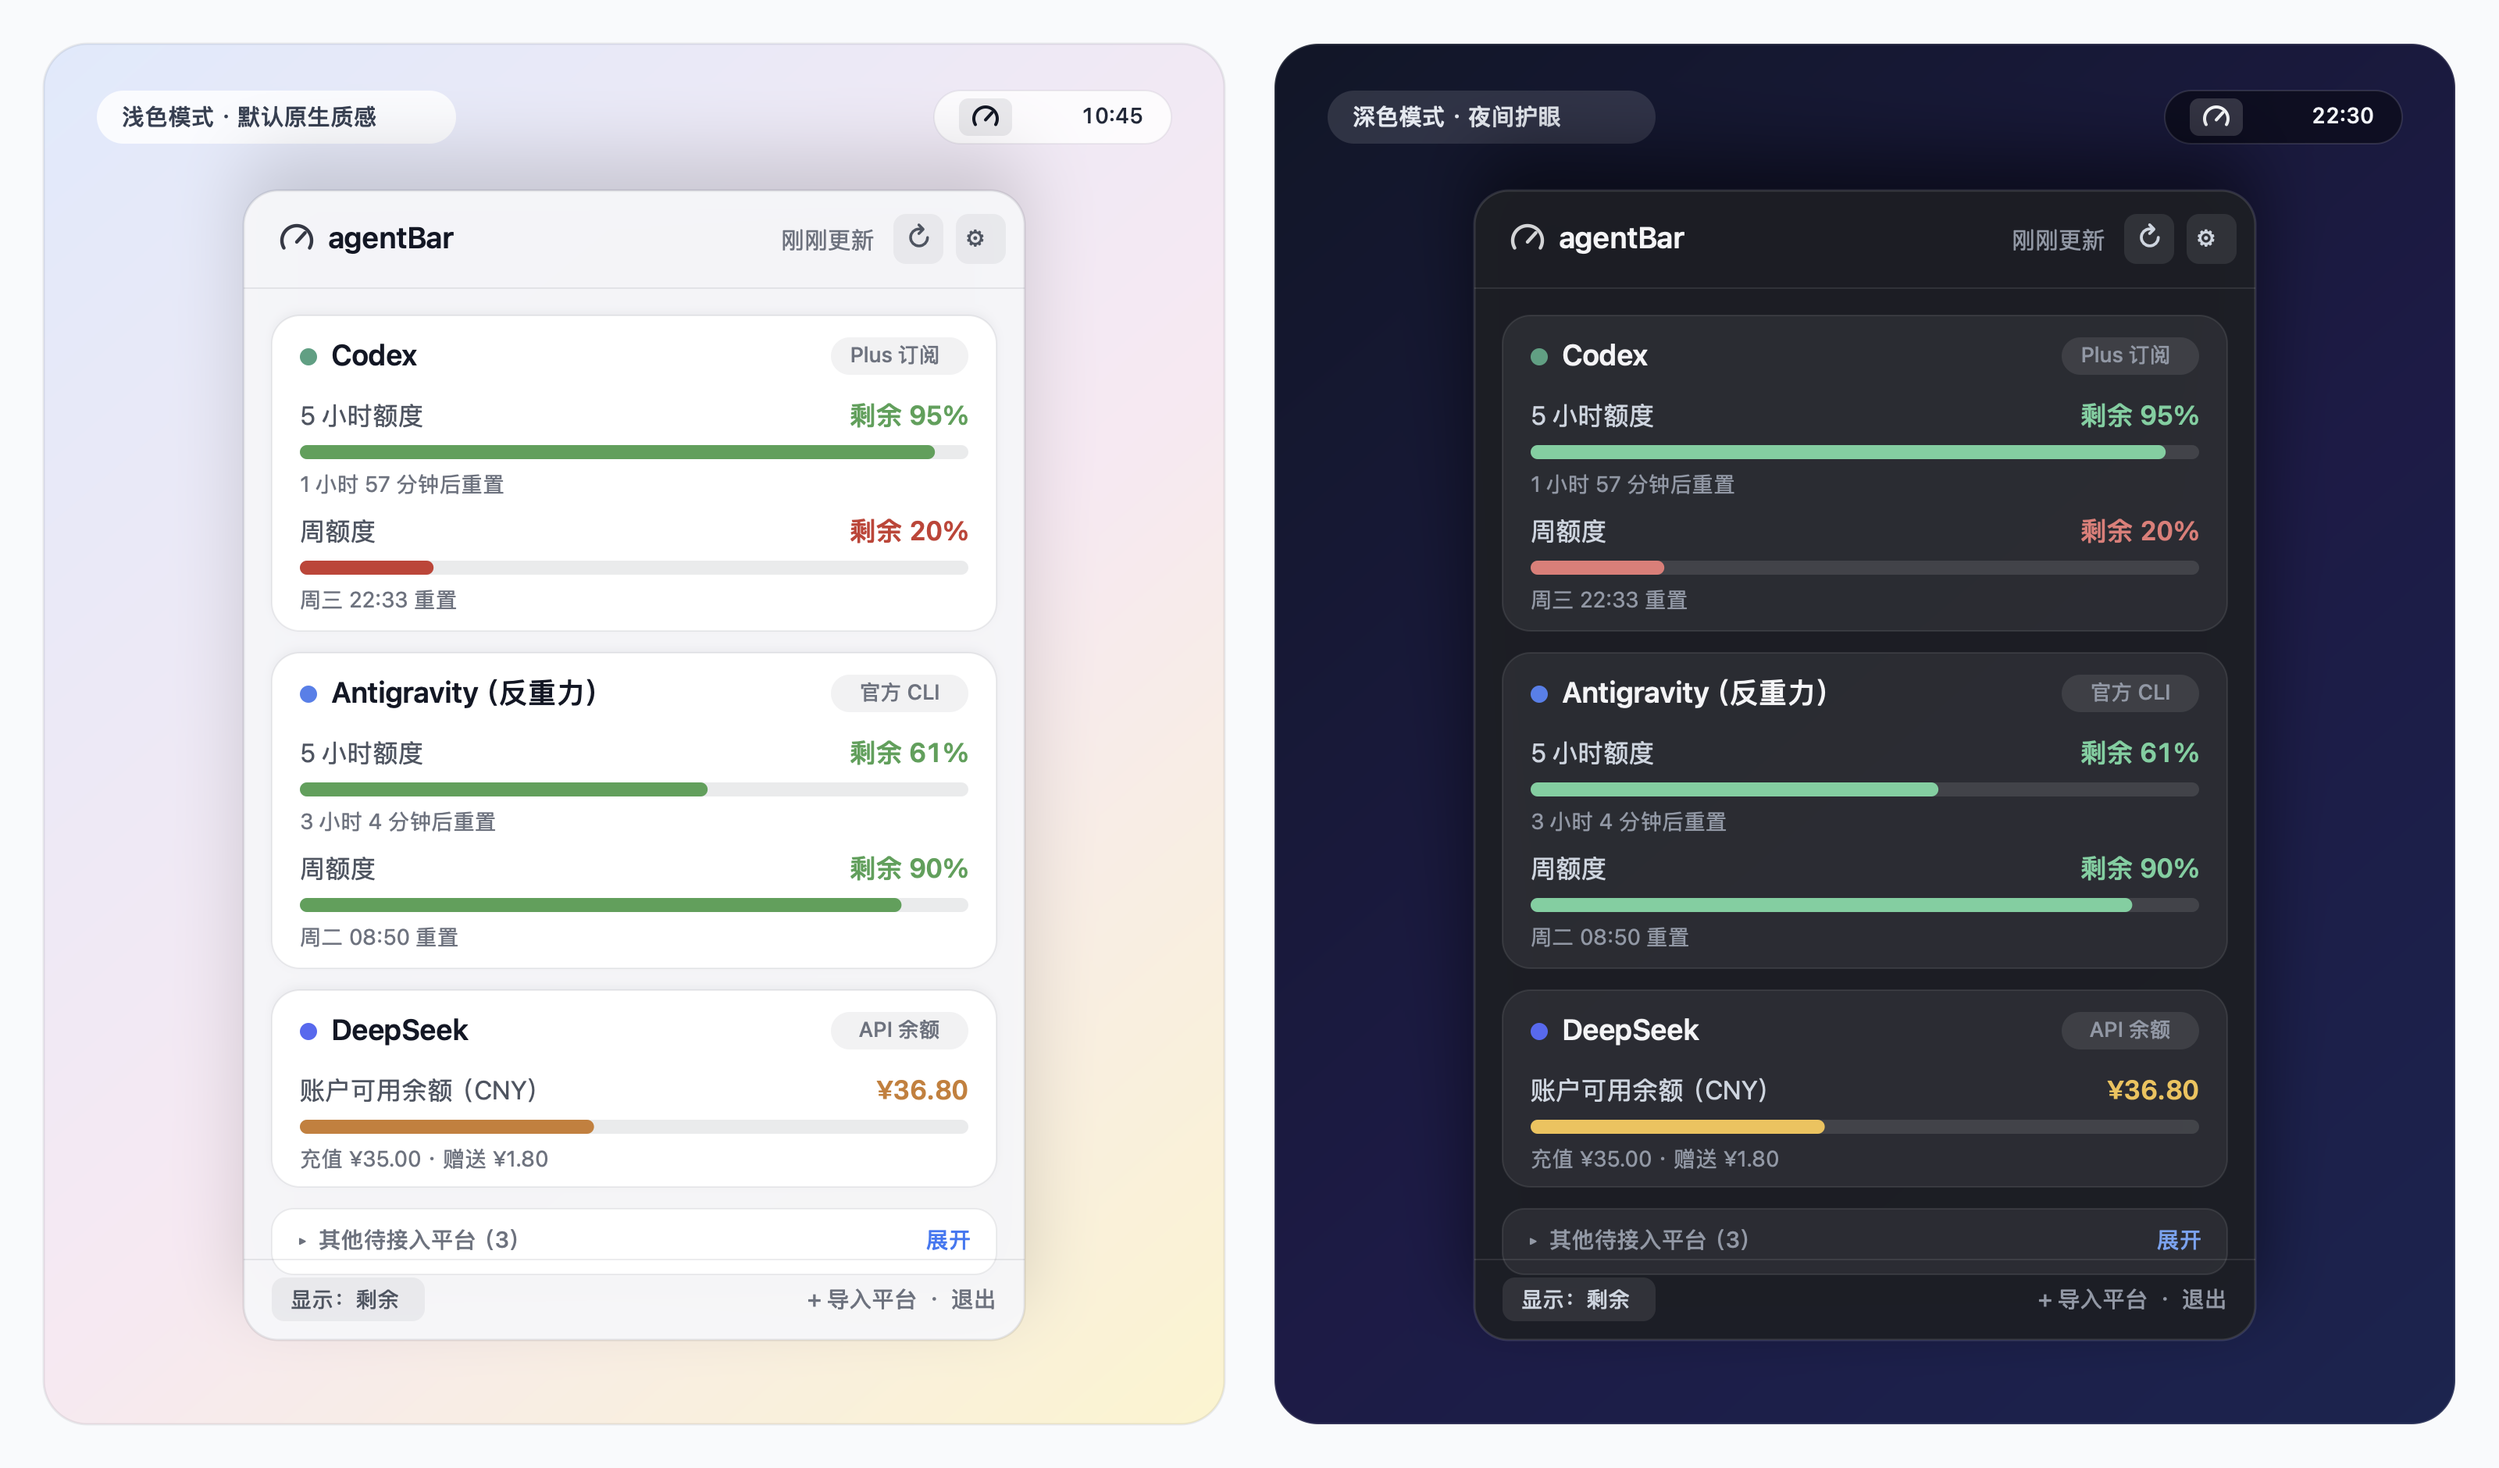
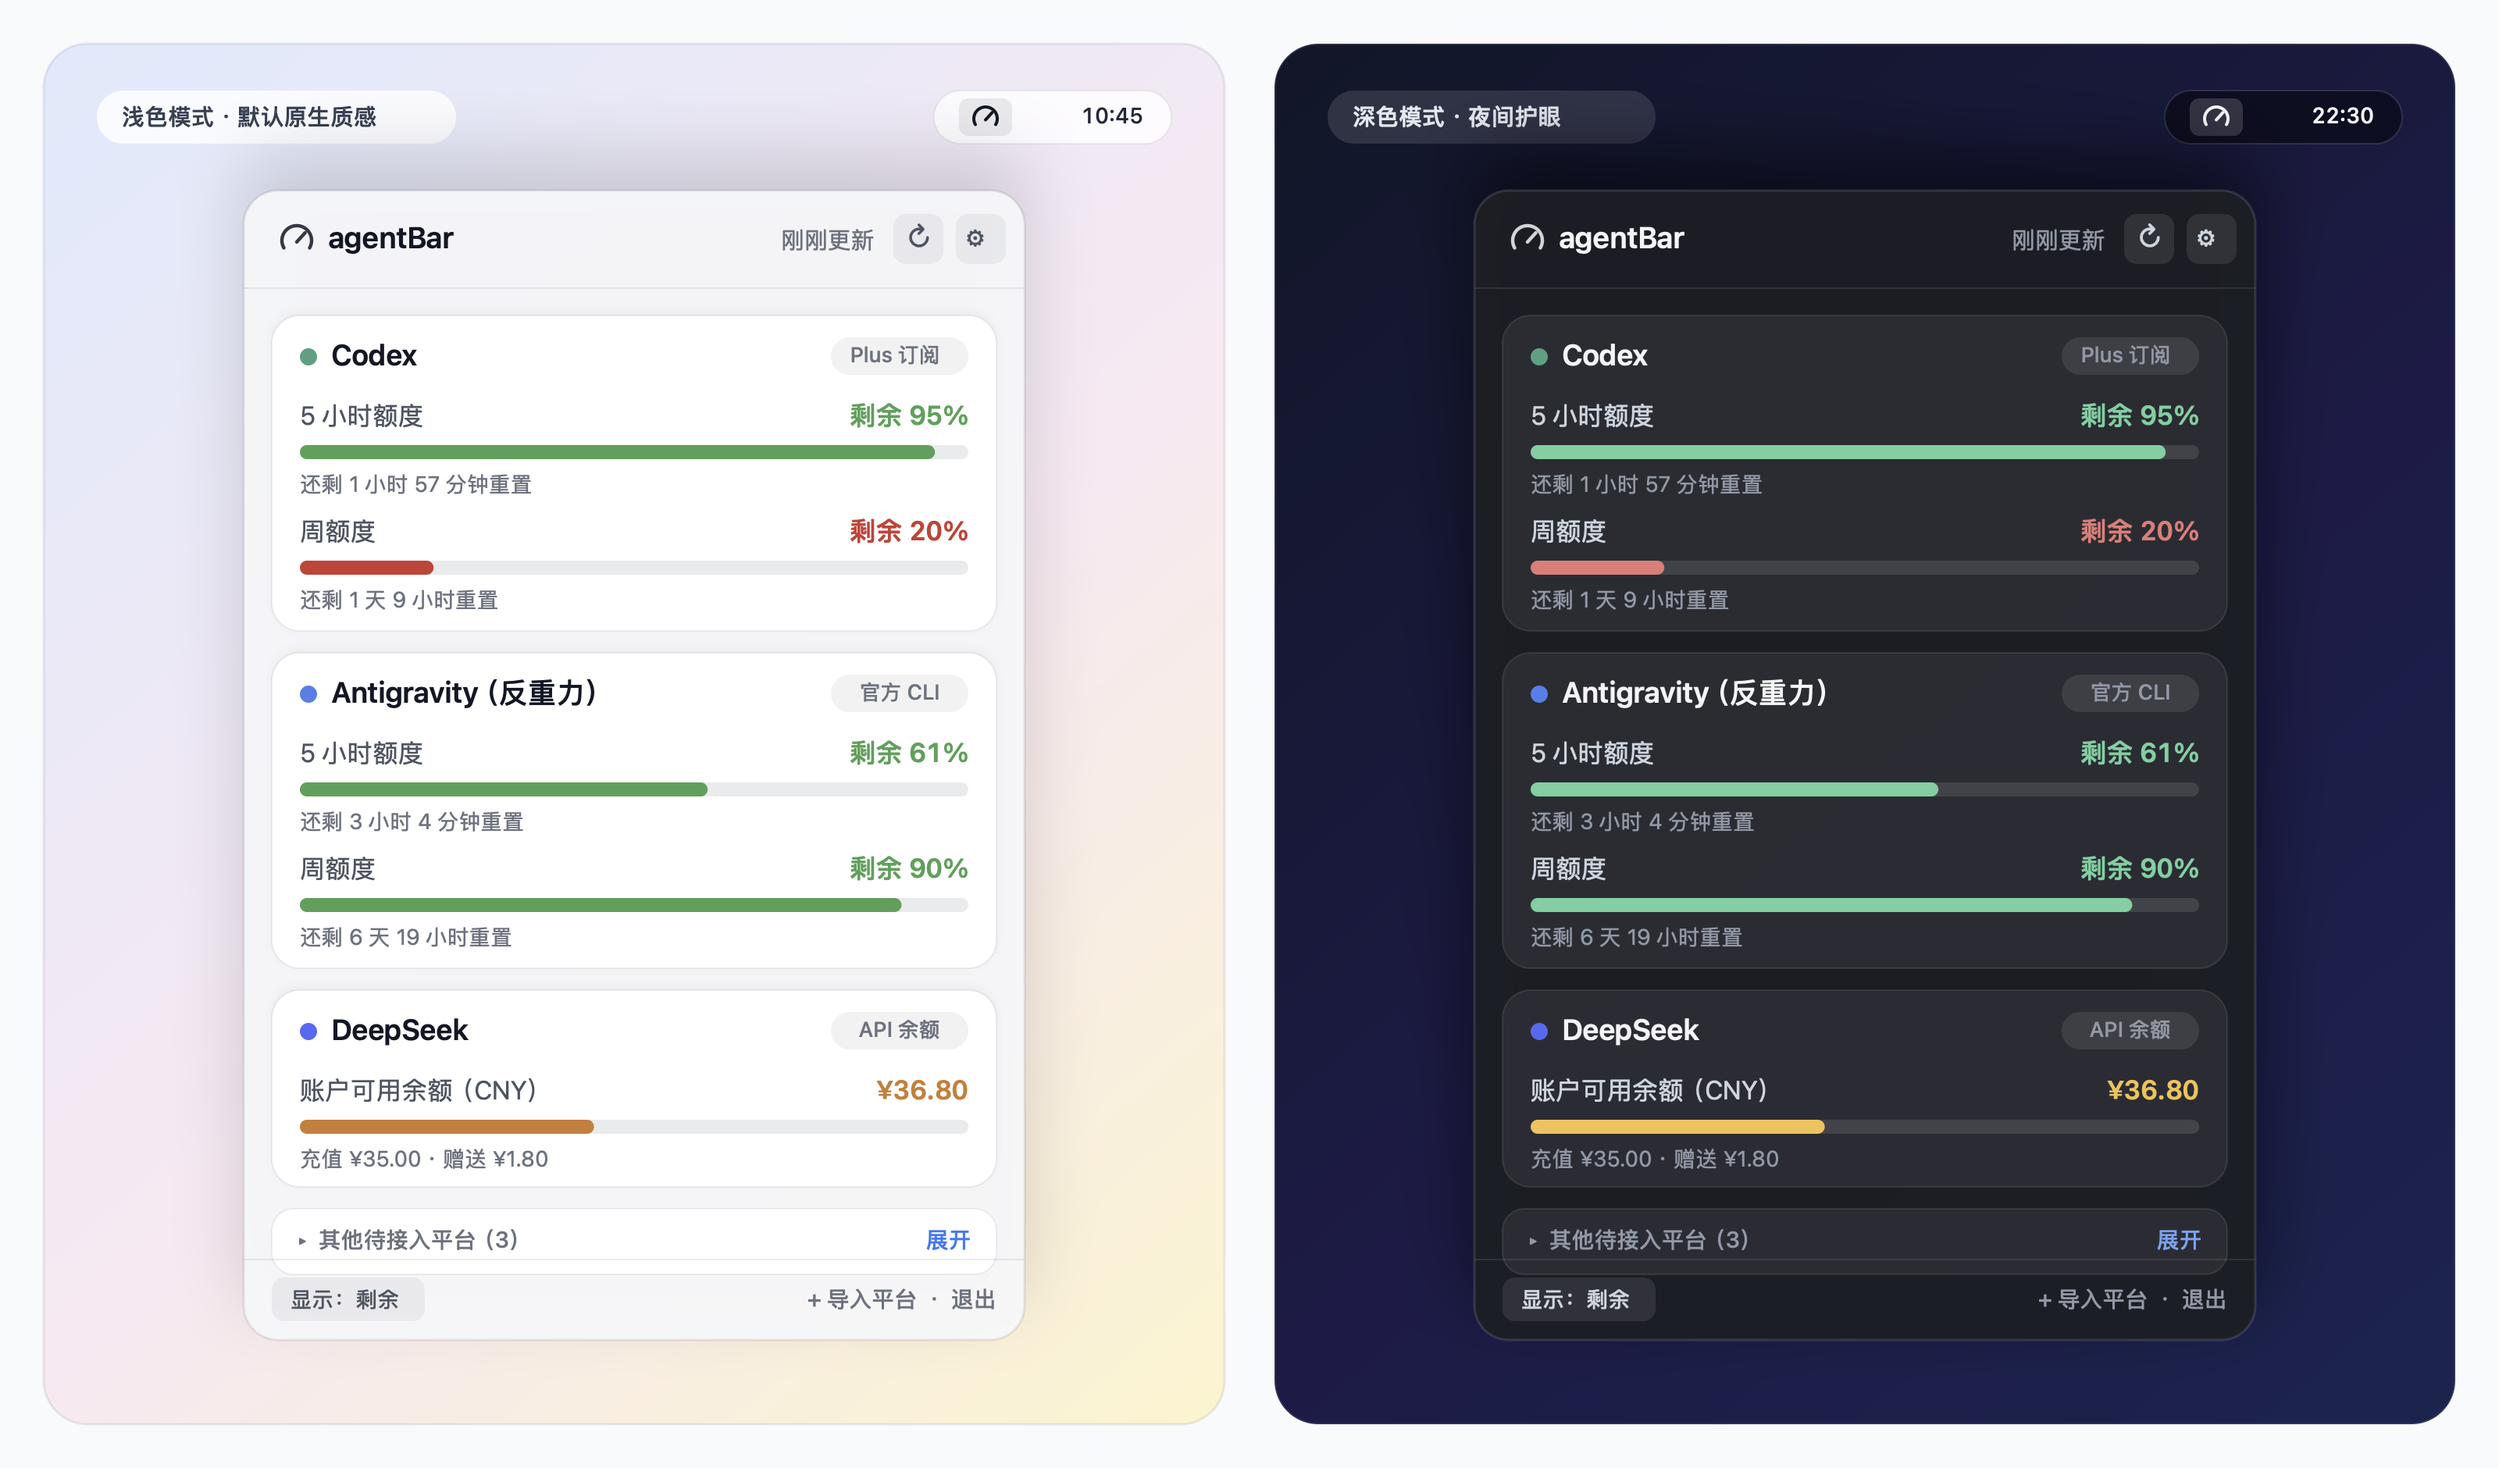
优化：重置倒计时统一改为直觉化的「还剩 X 天 X 小时重置 / 本月还剩 X 天重置」

diff --git a/Sources/agentBar/Models/QuotaModels.swift b/Sources/agentBar/Models/QuotaModels.swift
@@ -178,7 +178,11 @@ struct AgentQuotaSnapshot: Identifiable, Equatable {
 }
 
 enum QuotaTimeFormatter {
-    static func resetDescription(for date: Date?, now: Date = Date()) -> String? {
+    static func resetDescription(
+        for date: Date?,
+        now: Date = Date(),
+        windowLabel: String? = nil
+    ) -> String? {
         guard let date else { return nil }
         let interval = date.timeIntervalSince(now)
         if interval <= 60 {
@@ -186,33 +190,33 @@ enum QuotaTimeFormatter {
         }
 
         let totalMinutes = Int(interval / 60)
-        let hours = totalMinutes / 60
+        let totalHours = totalMinutes / 60
         let minutes = totalMinutes % 60
+        let days = totalHours / 24
+        let remHours = totalHours % 24
+        let isMonthly = (windowLabel ?? "").contains("月")
 
-        if hours < 24 {
-            if hours == 0 {
-                return "\(minutes) 分钟后重置"
+        // 月度周期（>= 1 天）：直接显示“本月还剩 X 天重置”
+        if isMonthly && days >= 1 {
+            let displayDays = remHours >= 12 ? days + 1 : days
+            return "本月还剩 \(displayDays) 天重置"
+        }
+
+        if totalHours < 24 {
+            if totalHours == 0 {
+                return "还剩 \(minutes) 分钟重置"
             } else if minutes == 0 {
-                return "\(hours) 小时后重置"
+                return "还剩 \(totalHours) 小时重置"
             } else {
-                return "\(hours) 小时 \(minutes) 分钟后重置"
+                return "还剩 \(totalHours) 小时 \(minutes) 分钟重置"
             }
         }
 
-        let calendar = Calendar.current
-        let weekdayNames = ["周日", "周一", "周二", "周三", "周四", "周五", "周六"]
-        let weekdayIndex = calendar.component(.weekday, from: date) - 1
-        let weekday = (0..<weekdayNames.count).contains(weekdayIndex) ? weekdayNames[weekdayIndex] : ""
-        let hour = calendar.component(.hour, from: date)
-        let minute = calendar.component(.minute, from: date)
-        let days = Int(interval / 86400)
-
-        if days < 7 {
-            return String(format: "%@ %02d:%02d 重置", weekday, hour, minute)
+        // 周额度 / 跨天周期：直接显示“还剩 X 天 Y 小时重置”
+        if remHours == 0 {
+            return "还剩 \(days) 天重置"
         } else {
-            let month = calendar.component(.month, from: date)
-            let day = calendar.component(.day, from: date)
-            return String(format: "%d月%d日 %02d:%02d 重置", month, day, hour, minute)
+            return "还剩 \(days) 天 \(remHours) 小时重置"
         }
     }
 

diff --git a/scripts/render-preview.swift b/scripts/render-preview.swift
@@ -197,8 +197,8 @@ func drawPanelShowcase(originX: CGFloat, isDark: Bool) {
             badge: "Plus 订阅",
             dotHex: 0x10A37F,
             windows: [
-                SampleWindow(label: "5 小时额度", valueText: "剩余 95%", progress: 0.95, colorHex: greenHex, resetText: "1 小时 57 分钟后重置"),
-                SampleWindow(label: "周额度", valueText: "剩余 20%", progress: 0.20, colorHex: redHex, resetText: "周三 22:33 重置")
+                SampleWindow(label: "5 小时额度", valueText: "剩余 95%", progress: 0.95, colorHex: greenHex, resetText: "还剩 1 小时 57 分钟重置"),
+                SampleWindow(label: "周额度", valueText: "剩余 20%", progress: 0.20, colorHex: redHex, resetText: "还剩 1 天 9 小时重置")
             ]
         ),
         SampleCard(
@@ -206,8 +206,8 @@ func drawPanelShowcase(originX: CGFloat, isDark: Bool) {
             badge: "官方 CLI",
             dotHex: 0x3B82F6,
             windows: [
-                SampleWindow(label: "5 小时额度", valueText: "剩余 61%", progress: 0.61, colorHex: greenHex, resetText: "3 小时 4 分钟后重置"),
-                SampleWindow(label: "周额度", valueText: "剩余 90%", progress: 0.90, colorHex: greenHex, resetText: "周二 08:50 重置")
+                SampleWindow(label: "5 小时额度", valueText: "剩余 61%", progress: 0.61, colorHex: greenHex, resetText: "还剩 3 小时 4 分钟重置"),
+                SampleWindow(label: "周额度", valueText: "剩余 90%", progress: 0.90, colorHex: greenHex, resetText: "还剩 6 天 19 小时重置")
             ]
         ),
         SampleCard(

diff --git a/Tests/agentBarTests/AgentBarTests.swift b/Tests/agentBarTests/AgentBarTests.swift
@@ -147,11 +147,18 @@ func jsonPathExtraction() throws {
     #expect(abs((value ?? 0) - 18.80) < 0.001)
 }
 
-@Test("中文重置倒计时格式化")
+@Test("中文重置倒计时格式化（小时/天+小时/月度剩余天数）")
 func chineseResetCountdownFormatting() {
     let base = Date(timeIntervalSince1970: 1_763_900_000)
+
     let inThreeHours = base.addingTimeInterval(3 * 3600 + 18 * 60)
-    #expect(QuotaTimeFormatter.resetDescription(for: inThreeHours, now: base) == "3 小时 18 分钟后重置")
+    #expect(QuotaTimeFormatter.resetDescription(for: inThreeHours, now: base) == "还剩 3 小时 18 分钟重置")
+
+    let inTwoDaysThreeHours = base.addingTimeInterval((2 * 24 + 3) * 3600 + 10 * 60)
+    #expect(QuotaTimeFormatter.resetDescription(for: inTwoDaysThreeHours, now: base, windowLabel: "周额度") == "还剩 2 天 3 小时重置")
+
+    let inFifteenDays = base.addingTimeInterval(15 * 24 * 3600)
+    #expect(QuotaTimeFormatter.resetDescription(for: inFifteenDays, now: base, windowLabel: "月度额度") == "本月还剩 15 天重置")
 
     let inTwentySeconds = base.addingTimeInterval(20)
     #expect(QuotaTimeFormatter.resetDescription(for: inTwentySeconds, now: base) == "即将重置")

diff --git a/docs/prototype.html b/docs/prototype.html
@@ -197,15 +197,15 @@
       {
         name: 'Codex', tag: 'Plus 订阅', dot: '#10A37F',
         windows: [
-          { label: '5 小时额度', used: 5, reset: '1 小时 57 分钟后重置' },
-          { label: '周额度', used: 80, reset: '周三 22:33 重置' }
+          { label: '5 小时额度', used: 5, reset: '还剩 1 小时 57 分钟重置' },
+          { label: '周额度', used: 80, reset: '还剩 1 天 9 小时重置' }
         ]
       },
       {
         name: 'Antigravity（反重力）', tag: '官方 CLI', dot: '#3B82F6',
         windows: [
-          { label: '5 小时额度', used: 39, reset: '3 小时 4 分钟后重置' },
-          { label: '周额度', used: 10, reset: '周二 08:50 重置' }
+          { label: '5 小时额度', used: 39, reset: '还剩 3 小时 4 分钟重置' },
+          { label: '周额度', used: 10, reset: '还剩 6 天 19 小时重置' }
         ]
       },
       {

diff --git a/Sources/agentBar/Providers/CursorDeepSeekOpenCodeProviders.swift b/Sources/agentBar/Providers/CursorDeepSeekOpenCodeProviders.swift
@@ -143,12 +143,19 @@ struct CursorProvider: QuotaProvider {
         let budget = max(config.cursorMonthlyBudgetUSD, 1.0)
         let usedPct = min(max((spentUSD / budget) * 100.0, 0), 100)
 
+        let nextMonthStart: Date? = {
+            let cal = Calendar.current
+            let now = Date()
+            guard let startOfMonth = cal.date(from: cal.dateComponents([.year, .month], from: now)) else { return nil }
+            return cal.date(byAdding: .month, value: 1, to: startOfMonth)
+        }()
+
         return [
             QuotaWindow(
                 id: "cursor-monthly",
                 label: "本月预算额度",
                 kind: .percentage(usedPercent: usedPct),
-                resetsAt: nil,
+                resetsAt: nextMonthStart,
                 detail: String(format: "已消费 $%.2f / $%.0f", spentUSD, budget)
             )
         ]

diff --git a/Sources/agentBar/App/AgentBarApp.swift b/Sources/agentBar/App/AgentBarApp.swift
@@ -35,7 +35,7 @@ enum AgentBarLauncher {
             case .active:
                 let items = snap.windows.map { win -> String in
                     let val = win.formattedPrimaryValue(showUsed: false)
-                    let reset = QuotaTimeFormatter.resetDescription(for: win.resetsAt) ?? "无重置时间"
+                    let reset = QuotaTimeFormatter.resetDescription(for: win.resetsAt, windowLabel: win.label) ?? "无重置时间"
                     return "\(win.label)=\(val)（\(reset)）"
                 }.joined(separator: " | ")
                 print("[已同步] \(snap.name)（\(snap.badge) · \(snap.sourceLabel)）：\(items)")

diff --git a/Sources/agentBar/Views/MenuBarPopoverView.swift b/Sources/agentBar/Views/MenuBarPopoverView.swift
@@ -575,7 +575,7 @@ struct QuotaWindowRowView: View {
     }
 
     private var metadataLine: String? {
-        let reset = QuotaTimeFormatter.resetDescription(for: window.resetsAt)
+        let reset = QuotaTimeFormatter.resetDescription(for: window.resetsAt, windowLabel: window.label)
         switch (reset, window.detail) {
         case let (r?, d?) where !d.isEmpty:
             return "\(r) · \(d)"

diff --git a/Sources/agentBar/Providers/CodexProvider.swift b/Sources/agentBar/Providers/CodexProvider.swift
@@ -346,6 +346,8 @@ struct CodexProvider: QuotaProvider {
             return "5 小时额度"
         } else if abs(minutes - 10080) <= 120 {
             return "周额度"
+        } else if minutes >= 25 * 1440 {
+            return "月度额度"
         } else if minutes >= 1440 {
             let days = Int(round(minutes / 1440.0))
             return "\(days) 天额度"
